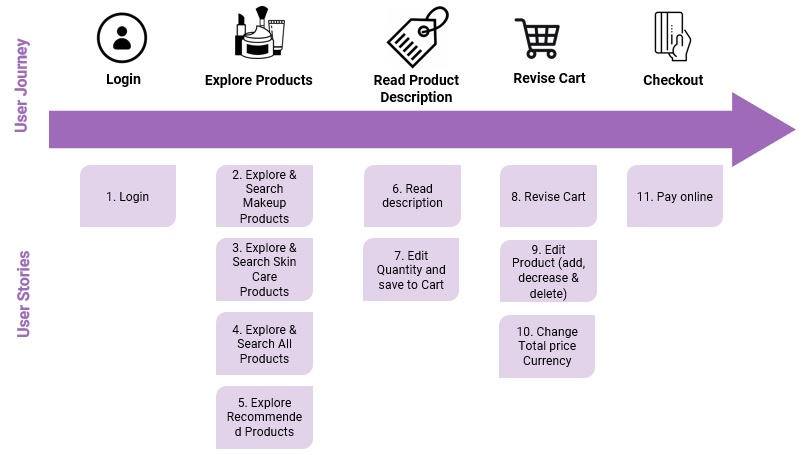
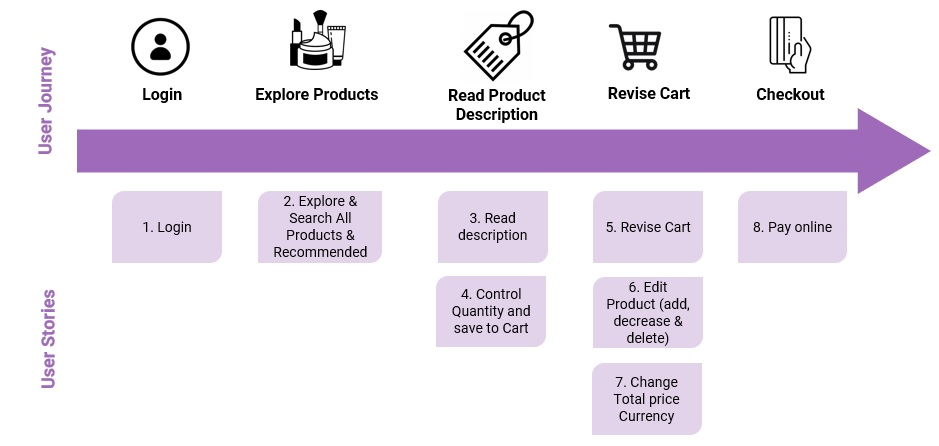
update readme file with final issues #80

diff --git a/README.md b/README.md
@@ -4,13 +4,13 @@
 ### Rose Cosmetics Store App 💄 ###
 
 ## ✧ Links
-- App Live link: [Here](#)
-- App Repo Link on Github:[Here](#)
+- App Live link: [Here](https://gsg-fc03.github.io/Cosmetics-Store/)
+- App Repo Link on Github:[Here](https://github.com/GSG-FC03/Cosmetics-Store.git)
 - Figma Prototype link: [Here](https://www.figma.com/proto/D6wEIVgBJjjTW7Y1OF3GEw/cosmetics?node-id=13%3A56&scaling=scale-down&page-id=0%3A1&starting-point-node-id=13%3A56)
 - Figma Design link: [Here](https://www.figma.com/file/D6wEIVgBJjjTW7Y1OF3GEw/cosmetics?node-id=0%3A1)
 - API documentation
   - API (1): [Makeup Products](https://makeup-api.herokuapp.com/)
-  - API (2): [Skin Care](https://rapidapi.com/apidojo/api/sephora)
+  - API (2): [Jewellery](https://fakestoreapi.com/products/category/jewelery)
   - API (3): [Exchange Rates](https://www.exchangerate-api.com/)
 
 ## ✧The Problem
@@ -43,17 +43,14 @@ GSG-Team 5 come up with creating a ***Rose Cosmetics Store App 💄***, This app
 ## ✧User Stories
 <img width="100%" height="auto" src="./Assets/Userstories.jpg"> <br>
 After different meeting with the client, the team developed the following user stories: <br>
-1- As a `Customer`, I want ***Login using my name*** so that ***I find my saved products in the cart***. <br>
-2- As a `Customer`, I want ***Explore & search products under Makeup section*** so that ***I reached my wanted products***.<br>
-3- As a `Customer`, I want ***Explore & search products under Skin Care section*** so that ***I reached my wanted products***.<br>
-4- As a `Customer`, I want ***Explore & search All Store products*** so that ***I reached my wanted products***.<br>
-5- As a `Customer`, I want ***Explore recommended products*** so that ***I may reach a good recommended product***.<br>
-6- As a `Customer`, I want ***read more description about selected product*** so that ***I get more info to decide to buy the product***.<br>
-7- As a `Customer`, I want ***Control quantity of the product and save to the cart*** so that ***I can save my selections without repeating the process***.<br>
-8- As a `Customer`, I want ***revise my cart*** so that ***I finalize my order before checkout***.<br>
-9- As a `Customer`, I want ***Edit Products in my cart (add Q, decrease Q or delete)*** so that ***I finalize my order before checkout***.<br>
-10- As a `Customer`, I want ***Toggle between the three currency GBP/USD/EUR*** so that ***I see the total cart price in my perffered currency***.<br>
-11- As a `Customer`, I want ***To pay online*** so that ***I complete checkout process***.<br>
+1- As a `Customer`, I can ***Login using my name*** so that ***I find my saved products in the cart***. <br>
+2- As a `Customer`, I can ***Explore & search all products & Expore recommended products *** so that ***I reached my wanted products***.<br>
+3- As a `Customer`, I can ***read more description about selected product*** so that ***I get more info to decide to buy the product***.<br>
+4- As a `Customer`, I can ***Control quantity of the product and save to the cart*** so that ***I can save my selections without repeating the process***.<br>
+5- As a `Customer`, I can ***revise my cart*** so that ***I finalize my order before checkout***.<br>
+6- As a `Customer`, I can ***Edit Products in my cart (add Q, decrease Q or delete)*** so that ***I finalize my order before checkout***.<br>
+7- As a `Customer`, I can ***Toggle between the three currency GBP/USD/EUR*** so that ***I see the total cart price in my perffered currency***.<br>
+8- As a `Customer`, I can ***To pay online*** so that ***I complete checkout process***.<br>
 
 
 **Other user stories were added to the backlog, and will implemented upon the availability of project time.** <br>
@@ -89,6 +86,7 @@ go live server
 - JavaScript|DOM Manipulations ➙ To create interaction between the page and the user and track and process customer buying journey.
 - API ➙ to import/search products data.
 - LocalStorage ➙ to store customers products selections.
+- GoogleMeet & PPT & GitHub➙ to manage project.
 
 ## ✧Team members
 1. [Mohammad Hellis](https://github.com/mo7amedehab97)
